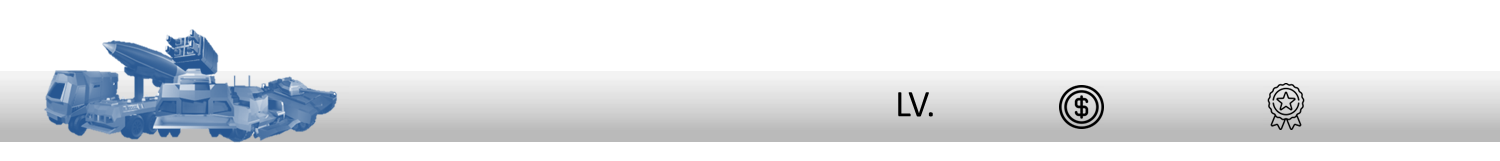
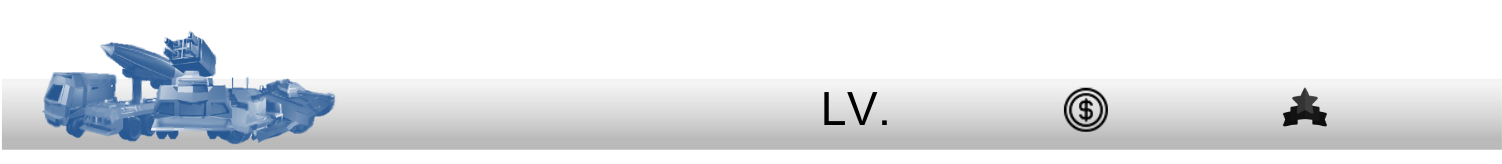
//新增玩家目前 關卡 顯示

diff --git a/src/scene/UserScene.java b/src/scene/UserScene.java
@@ -35,6 +35,7 @@ public class UserScene extends Scene{ //改成單例模式!!!
     private boolean arrowLUseable;
     private Label armyLabel; //購買軍隊的標籤
     private Label enemyLabel; //敵軍機密的標籤
+    private Label playerLevel;//目前在第幾關
     private Label playerMoney;//玩家的錢
     private Label playerHorn;//玩家榮譽
     private PopWindowScene popupWindow;//敵方資訊場景
@@ -77,8 +78,9 @@ public class UserScene extends Scene{ //改成單例模式!!!
         arrowL.setStyleHover(new Style.StyleRect(187,187,new BackgroundType.BackgroundImage(ImageController.getInstance().tryGet("/arrowLH.png"))));
         armyLabel=new Label(570,50,new Style.StyleRect(600,87,true,new BackgroundType.BackgroundImage(ImageController.getInstance().tryGet("/army.png"))));
         enemyLabel=new Label(1350,160,new Style.StyleRect(214,58,true,new BackgroundType.BackgroundImage(ImageController.getInstance().tryGet("/enemy.png"))));
-        playerMoney=new Label(1320,910,new Style.StyleRect(100,100,true,null));
-                playerHorn=new Label(1520,910,new Style.StyleRect(100,100,true,null));
+        playerLevel=new Label(1120,915,new Style.StyleRect(100,100,true,null));
+        playerMoney=new Label(1320,915,new Style.StyleRect(100,100,true,null));
+        playerHorn=new Label(1550,915,new Style.StyleRect(100,100,true,null));
         barImage=ImageController.getInstance().tryGet("/bar.png");
         popupWindow=new PopWindowScene(130,50,1300,600);
         popupWindow.setCancelable();
@@ -232,6 +234,8 @@ public class UserScene extends Scene{ //改成單例模式!!!
             armyCount++;
         }
         //畫玩家金錢和榮譽
+        playerLevel.getPaintStyle().setText(Global.getLevel()+"").setTextFont(new Font("標楷體",Font.BOLD,52)).setTextColor(new Color(0xFC246CC6, true));
+        playerLevel.paint(g);
         playerMoney.getPaintStyle().setText(Player.getInstance().getMoney()+"").setTextFont(new Font("標楷體",Font.BOLD,42)).setTextColor(new Color(0xFC246CC6, true));
         playerMoney.paint(g);
         playerHorn.getPaintStyle().setText(Player.getInstance().getHonor()+"").setTextFont(new Font("標楷體",Font.BOLD,42)).setTextColor(new Color(0xFC246CC6, true));

diff --git a/src/scene/SkillScene.java b/src/scene/SkillScene.java
@@ -25,6 +25,7 @@ public class SkillScene extends Scene {
     private IntroPopupWindow introPopupWindow;//進入回合前的教學視窗
     private Label skillLabel; //購買技能的標籤
     private BufferedImage barImage;//
+    private Label playerLevel;//目前在第幾關
     private Label playerMoney;//玩家的錢
     private Label playerHorn;//玩家榮譽
 
@@ -33,8 +34,9 @@ public class SkillScene extends Scene {
     public void sceneBegin() {
         backGround=ImageController.getInstance().tryGet("/UserSceneBack.png");
         barImage=ImageController.getInstance().tryGet("/bar.png");
-        playerMoney=new Label(1320,910,new Style.StyleRect(100,100,true,null));
-        playerHorn=new Label(1520,910,new Style.StyleRect(100,100,true,null));
+        playerLevel=new Label(1120,915,new Style.StyleRect(100,100,true,null));
+        playerMoney=new Label(1320,915,new Style.StyleRect(100,100,true,null));
+        playerHorn=new Label(1550,915,new Style.StyleRect(100,100,true,null));
         skillButtons = Global.getSkillButtons();//得到Global的技能按鈕
         roundStart=new Button(1350,650,new Style.StyleRect(150,150,
                 new BackgroundType.BackgroundImage(ImageController.getInstance().tryGet("/start.png"))));
@@ -130,6 +132,8 @@ public class SkillScene extends Scene {
         }
         g.drawImage(barImage,200,850,null);
         //畫玩家金錢和榮譽
+        playerLevel.getPaintStyle().setText(Global.getLevel()+"").setTextFont(new Font("標楷體",Font.BOLD,52)).setTextColor(new Color(0xFC246CC6, true));
+        playerLevel.paint(g);
         playerMoney.getPaintStyle().setText(Player.getInstance().getMoney()+"").setTextFont(new Font("標楷體",Font.BOLD,42)).setTextColor(new Color(0xFC246CC6, true));
         playerMoney.paint(g);
         playerHorn.getPaintStyle().setText(Player.getInstance().getHonor()+"").setTextFont(new Font("標楷體",Font.BOLD,42)).setTextColor(new Color(0xFC246CC6, true));

diff --git a/src/scene/ChallengeScene.java b/src/scene/ChallengeScene.java
@@ -4,8 +4,6 @@ import controllers.ImageController;
 import controllers.SceneController;
 import gameobj.*;
 import menu.*;
-import menu.Button;
-import menu.Label;
 import menu.impl.MouseTriggerImpl;
 import utils.*;
 
@@ -13,7 +11,7 @@ import java.awt.*;
 import java.awt.event.MouseEvent;
 import java.awt.image.BufferedImage;
 import java.util.ArrayList;
-import java.util.Scanner;
+
 public class ChallengeScene extends Scene{
     private BufferedImage image; //背景圖
     private BufferedImage image1_1;
@@ -52,7 +50,7 @@ public class ChallengeScene extends Scene{
 //        test = new EditText(0,0,"請輸入文字",new Style.StyleRect(500,500,new BackgroundType.BackgroundImage(ImageController.getInstance().tryGet("/AB-Tank1.png"))));
         image = ImageController.getInstance().tryGet("/GameScene1.png"); //場景圖
         image1_1=ImageController.getInstance().tryGet("/GameScene1-1.png");
-        image2 = ImageController.getInstance().tryGet("/fail2.png");
+        image2 = ImageController.getInstance().tryGet("/fail1.png");
         isFlagUsable = true;
         gameBegin=new Delay(300);
         gameOver=false;

diff --git a/src/scene/GameScene.java b/src/scene/GameScene.java
@@ -275,8 +275,13 @@ public class GameScene extends Scene {
             }
         }
         if (alliance.size() <= 0) { //死光時畫失敗畫面
-            image2 = ImageController.getInstance().tryGet("/fail2.png");
+            if(Global.getLevel()==1){
+            image2 = ImageController.getInstance().tryGet("/fail1.png");
             g.drawImage(image2, 350, 250, null);
+            }else if(Global.getLevel()==2){
+                image2 = ImageController.getInstance().tryGet("/fail2.png");
+                g.drawImage(image2, 350, 250, null);
+            }
         }
         Player.getInstance().paint(g);
 
@@ -285,7 +290,6 @@ public class GameScene extends Scene {
     @Override
     public void update() {
         System.out.println("STEP："+step);
-
         if(skill.size()>0) {
             for (int i = 0; i < skill.size(); i++) {
                 if (skill.get(i).isUsed()) { //沒有被施放過
